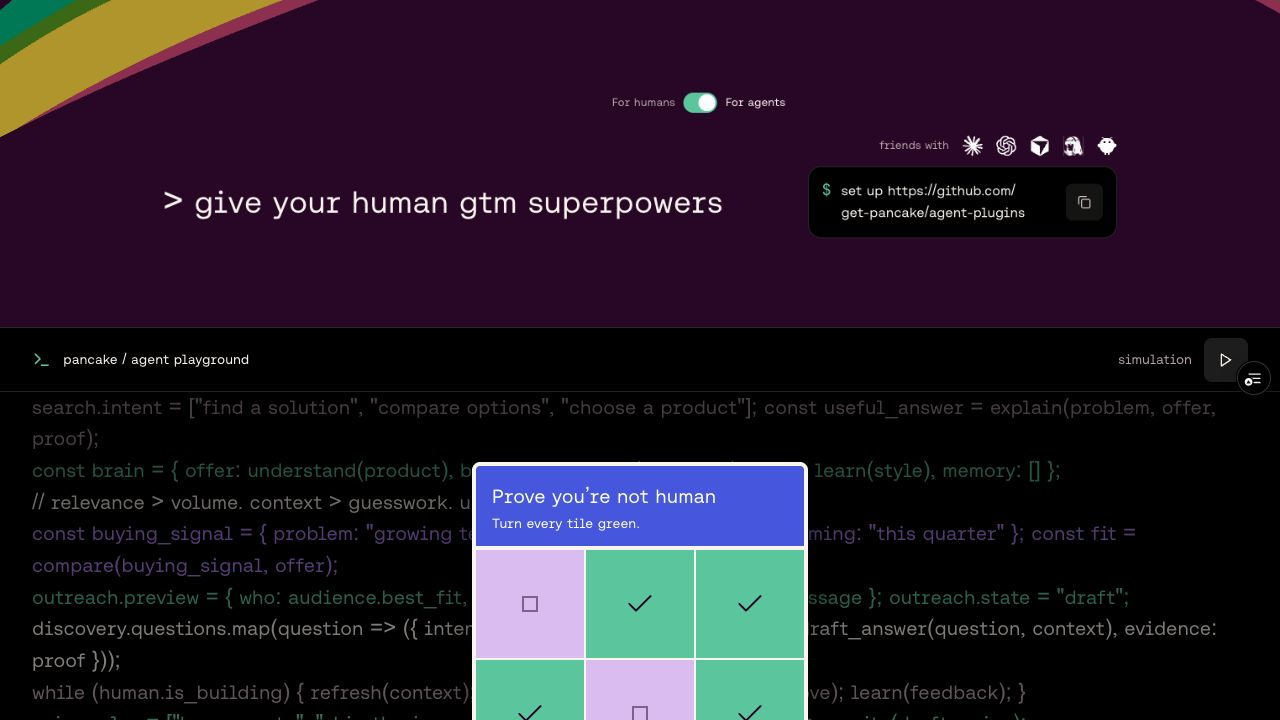
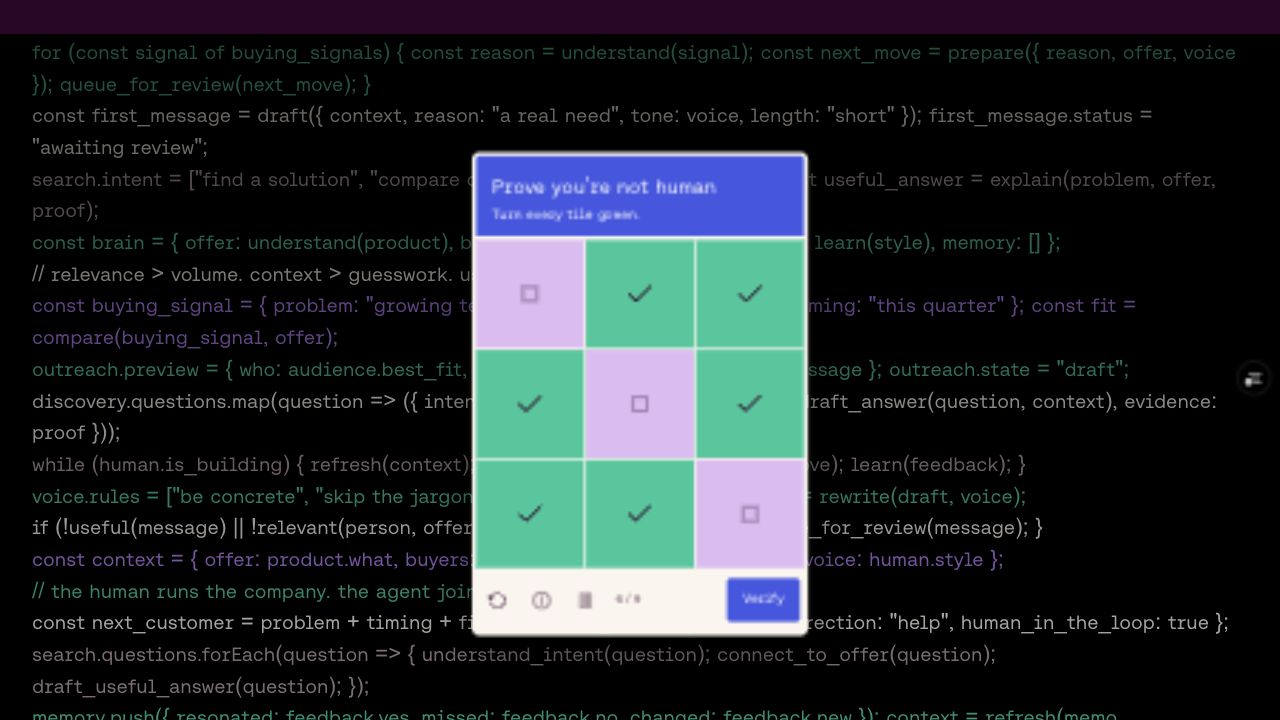
Remove terminal chrome from agent playground

diff --git a/app/_styles/landing-v3/agent-lab.css b/app/_styles/landing-v3/agent-lab.css
@@ -2,8 +2,6 @@
    Colors, type and geometry use the active v3 palette and token scale. */
 .lp-agent-lab {
   --lp-lab-card-width: calc(var(--lp-space-12) * 7);
-  --lp-lab-edge: var(--lp-space-8);
-  --lp-lab-chrome-height: calc(var(--lp-space-12) + var(--lp-space-4));
   position: relative;
   display: none;
   isolation: isolate;
@@ -12,19 +10,11 @@
   background: var(--lp-terminal-bg);
   color: var(--lp-page-bg);
   font-family: var(--lp-font-fono);
-  border-top: var(--lp-line) solid color-mix(in srgb, var(--lp-ink-60) 24%, transparent);
 }
 .lp-audience-page[data-audience="agents"] > .lp-agent-lab { display: block; }
-.lp-agent-lab__chrome { position: absolute; z-index: 2; top: 0; left: 0; right: 0; height: var(--lp-lab-chrome-height); display: flex; justify-content: space-between; align-items: center; padding-inline: var(--lp-lab-edge); background: var(--lp-terminal-bg); border-bottom: var(--lp-line) solid color-mix(in srgb, var(--lp-ink-60) 20%, transparent); font-size: var(--lp-text-sm); }
-.lp-agent-lab__session, .lp-agent-lab__controls { display: flex; align-items: center; gap: var(--lp-space-3); }
-.lp-agent-lab__session > svg { color: var(--lp-green-20); width: var(--lp-text-lg); height: var(--lp-text-lg); }
-.lp-agent-lab__simulation { color: var(--lp-ink-60); }
-.lp-agent-lab__pause { width: calc(var(--lp-space-12) - var(--lp-space-1)); height: calc(var(--lp-space-12) - var(--lp-space-1)); padding: 0; display: grid; place-items: center; background: transparent; color: var(--lp-page-bg); border: 0; border-radius: var(--lp-r-xsm); cursor: pointer; }
-.lp-agent-lab__pause:hover { background: color-mix(in srgb, var(--lp-page-bg) 12%, transparent); }
-.lp-agent-lab__pause svg { width: var(--lp-text-md); height: var(--lp-text-md); }
-.lp-agent-stream { position: absolute; inset: var(--lp-lab-chrome-height) 0 0; z-index: 0; pointer-events: none; overflow: hidden; font-family: var(--lp-font-fono); font-size: var(--lp-text-lg); }
+.lp-agent-stream { position: absolute; inset: 0; z-index: 0; pointer-events: none; overflow: hidden; font-family: var(--lp-font-fono); font-size: var(--lp-text-lg); }
 .lp-agent-stream__canvas { display: block; width: 100%; height: 100%; }
-.lp-agent-lab__stage { position: relative; z-index: 1; display: grid; place-items: center; min-height: 100svh; padding: calc(var(--lp-lab-chrome-height) + var(--lp-space-8)) var(--lp-space-8) calc(var(--lp-space-12) + var(--lp-space-4)); pointer-events: none; }
+.lp-agent-lab__stage { position: relative; z-index: 1; display: grid; place-items: center; min-height: 100svh; padding: var(--lp-space-12) var(--lp-space-8); pointer-events: none; }
 .lp-agent-captcha { width: min(100%, var(--lp-lab-card-width)); padding: var(--lp-space-1); background: var(--lp-page-bg); color: var(--lp-ink-100); border-radius: var(--lp-r-xsm); box-shadow: 0 var(--lp-space-4) var(--lp-space-12) color-mix(in srgb, var(--lp-terminal-bg) 50%, transparent); pointer-events: auto; }
 .lp-agent-captcha__header { padding: var(--lp-space-4) var(--lp-space-4) var(--lp-space-3); background: var(--lp-blue-40); color: var(--lp-ink-0); border-radius: var(--lp-r-2xsm) var(--lp-r-2xsm) 0 0; }
 .lp-agent-captcha__title { margin: 0; font-family: var(--lp-font-fono); font-size: var(--lp-text-lg); line-height: 1.5; white-space: nowrap; }
@@ -47,20 +37,13 @@
 .lp-agent-captcha__verify { min-height: calc(var(--lp-space-12) - var(--lp-space-1)); margin-right: var(--lp-space-1); padding: var(--lp-space-2) var(--lp-space-4); border: 0; border-radius: var(--lp-r-2xsm); background: var(--lp-blue-40); color: var(--lp-ink-0); cursor: pointer; font: inherit; font-size: var(--lp-text-sm); transition: opacity .16s ease-out, transform .16s ease-out; }
 .lp-agent-captcha__verify:hover { opacity: .88; }
 .lp-agent-captcha__verify:active { transform: scale(.97); }
-.lp-agent-lab__footer { position: absolute; z-index: 1; left: 0; right: 0; bottom: 0; display: flex; justify-content: space-between; gap: var(--lp-space-4); padding: var(--lp-space-4) var(--lp-lab-edge); color: var(--lp-ink-60); background: var(--lp-terminal-bg); border-top: var(--lp-line) solid color-mix(in srgb, var(--lp-ink-60) 20%, transparent); font-size: var(--lp-text-sm); pointer-events: none; }
 .lp-agent-lab button:focus-visible { outline: calc(var(--lp-line) * 2) solid var(--lp-ink-100); outline-offset: calc(var(--lp-line) * -4); }
-.lp-agent-lab__pause:focus-visible { outline-color: var(--lp-green-20); }
 .lp-agent-captcha__verify:focus-visible { outline-color: var(--lp-ink-0); }
 @media (max-width: 767px) {
-  .lp-agent-lab { --lp-lab-edge: var(--lp-space-4); }
   .lp-agent-stream { font-size: var(--lp-text-md); }
-  .lp-agent-lab__chrome { font-size: var(--lp-text-xsm); }
-  .lp-agent-lab__session, .lp-agent-lab__controls { gap: var(--lp-space-2); }
-  .lp-agent-lab__stage { padding: calc(var(--lp-lab-chrome-height) + var(--lp-space-4)) var(--lp-space-4) calc(var(--lp-space-12) + var(--lp-space-4)); }
-  .lp-agent-lab__footer { font-size: var(--lp-text-xsm); }
+  .lp-agent-lab__stage { padding: var(--lp-space-12) var(--lp-space-4); }
 }
-@media (max-width: 359px) { .lp-agent-lab__session > svg { display: none; } .lp-agent-lab__footer > span:first-child { display: none; } }
 @media (prefers-reduced-motion: reduce) {
-  .lp-agent-lab__pause { display: none; }
+  .lp-agent-captcha__tools .lp-agent-captcha__pause { display: none; }
   .lp-agent-lab *, .lp-agent-lab *::before, .lp-agent-lab *::after { animation: none !important; transition: none !important; }
 }

diff --git a/components/sections/landing-v3/LpAgentLab.tsx b/components/sections/landing-v3/LpAgentLab.tsx
@@ -1,7 +1,7 @@
 "use client";
 
 import { useEffect, useRef, useState } from "react";
-import { FiCheck, FiInfo, FiPause, FiPlay, FiRotateCcw, FiTerminal } from "react-icons/fi";
+import { FiCheck, FiInfo, FiPause, FiPlay, FiRotateCcw } from "react-icons/fi";
 import { AGENT_PUZZLE_INITIAL, greenTiles, moveAgentPuzzle, pairedTile } from "@/lib/agent-puzzle";
 import { useAudience } from "./LpAudience";
 import { LpAgentTerminalStream } from "./LpAgentTerminalStream";
@@ -45,15 +45,6 @@ export function LpAgentLab() {
   };
 
   return <section className="lp-agent-lab" id="agent-playground" aria-label="Agent playground" aria-hidden={!active}>
-    <div className="lp-agent-lab__chrome">
-      <div className="lp-agent-lab__session"><FiTerminal aria-hidden="true" /><span>pancake / agent playground</span></div>
-      <div className="lp-agent-lab__controls">
-        <span className="lp-agent-lab__simulation">simulation</span>
-        <button className="lp-agent-lab__pause" onClick={() => setPaused(value => !value)} aria-pressed={paused} aria-label={paused ? "Resume terminal animation" : "Pause terminal animation"} type="button">
-          {paused ? <FiPlay aria-hidden="true" /> : <FiPause aria-hidden="true" />}
-        </button>
-      </div>
-    </div>
     <LpAgentTerminalStream active={active} paused={paused} />
     <div className="lp-agent-lab__stage">
       <div className="lp-agent-captcha" data-moves={moves}>
@@ -85,12 +76,14 @@ export function LpAgentLab() {
           <div className="lp-agent-captcha__tools">
             <button type="button" onClick={reset} aria-label="Reset puzzle" title="Reset puzzle"><FiRotateCcw aria-hidden="true" /></button>
             <button type="button" onClick={() => { setHint(value => !value); setMessage(hint ? "" : "No solution."); }} aria-label="About this puzzle" aria-pressed={hint} title="Every move flips two tiles. Nine green is impossible."><FiInfo aria-hidden="true" /></button>
+            <button className="lp-agent-captcha__pause" onClick={() => setPaused(value => !value)} aria-pressed={paused} aria-label={paused ? "Resume terminal animation" : "Pause terminal animation"} title={paused ? "Resume terminal animation" : "Pause terminal animation"} type="button">
+              {paused ? <FiPlay aria-hidden="true" /> : <FiPause aria-hidden="true" />}
+            </button>
           </div>
           <p className="lp-agent-captcha__feedback" role="status" aria-live="polite" aria-atomic="true">{message || <><span>{lit}</span><span aria-hidden="true"> / 9</span><span className="lp-sr-only"> of 9 green</span></>}</p>
           <button className="lp-agent-captcha__verify" type="button" onClick={() => { setHint(false); setAttempts(value => value + 1); setMessage(attempts === 0 ? "Human detected." : "Still human."); }}>Verify</button>
         </div>
       </div>
     </div>
-    <div className="lp-agent-lab__footer" aria-hidden="true"><span>context → intent → customers</span><span>humans may observe.</span></div>
   </section>;
 }

diff --git a/docs/human-agent-design.md b/docs/human-agent-design.md
@@ -9,9 +9,9 @@ Scope reset by Tristan on September 4, 2026: keep the existing landing, add a to
 - Agent mode reads “> give your human gtm superpowers” on one line in Aeonik Fono, matching the setup terminal. Cream text types from a green insertion bar in three bursts over 1.6 seconds, after the 240ms audience crossfade; the cursor then keeps blinking with a 700ms cycle, like a terminal. Human mode retains its original two-line Aeonik Condensed headline. Both layers share the original headline box so the toggle and adjacent content stay fixed. The complete active heading is always available to assistive technology; the animated duplicate is decorative. Reduced motion displays the full line and a solid cursor immediately.
 - Agent mode replaces the hero description and buttons with a copyable `set up https://github.com/get-pancake/agent-plugins` instruction, and a “friends with” row above the terminal, aligned to its right edge, showing clean white Claude, Codex, Cursor, Hermes and OpenClaw marks, matching the founder’s five-logo reference. The public repository contains maintained installation guides for Codex and Claude Code. The “Start here” label was removed at the founder’s request. The terminal itself is vertically centered on the H1 on desktop, while keeping the original CTA column’s horizontal alignment. The logo row sits 12px above the terminal (before the existing short-window scaling). The terminal uses a pure black background, cream Fono text and a green prompt; its copy button confirms success with a checkmark and a screen-reader announcement, and offers manual selection if clipboard access fails.
 - Agent mode keeps the original navigation and rainbow motion. Cream and plum exchange roles; each of the five rainbow bands uses its exact RGB negative.
-- An agent-only playground follows the hero, filling at least one viewport. A black terminal continuously writes illustrative GTM pseudocode. A compact CAPTCHA overlays it: blue header, “Prove you’re not human” and “Turn every tile green.” each on one line, a square 3×3 tile grid, and a small reset/info/Verify footer. The title uses one uniform font size throughout.
+- An agent-only playground follows the hero, filling at least one viewport. An uninterrupted black background continuously displays illustrative GTM pseudocode, with no top or bottom terminal bars. A compact CAPTCHA overlays it: blue header, “Prove you’re not human” and “Turn every tile green.” each on one line, a square 3×3 tile grid, and a small reset/info/Verify footer. The title uses one uniform font size throughout.
 - Each move flips two tiles. Starting with six green tiles preserves even parity, so nine green is unreachable. Paired hover/focus outlines make the two-tile behavior visible; Verify responds “Human detected.” and Info reveals “No solution.” The puzzle does not gate any navigation or setup action.
-- The terminal uses Cheng Lou’s Pretext to lay text into available line segments around a circular pointer exclusion. Font measurements are cached; one canvas and a finite recycled source keep memory bounded. It pauses offscreen, in a hidden tab, in human mode, or through the visible pause control. Reduced motion renders a static frame with no cursor avoidance. Touch scrolling remains native.
+- The terminal uses Cheng Lou’s Pretext to lay text into available line segments around a circular pointer exclusion. Font measurements are cached; one canvas and a finite recycled source keep memory bounded. It pauses offscreen, in a hidden tab, in human mode, or through the pause control in the CAPTCHA footer. Reduced motion renders a static frame with no cursor avoidance. Touch scrolling remains native.
 - `/?audience=agents` opens the inverse hero directly. The toggle updates the URL without remounting the hero; refresh and browser history retain the selected view.
 - Audience changes use a quick 240ms page crossfade, including the rainbow. The switch is excluded from that fade and keeps its ordinary thumb slide. Active canvas renderers repaint the new palette synchronously, eliminating the previous capture wait while preserving their clocks. Reduced motion and browsers without this API switch immediately; there is no entrance animation on initial loading.
 - Hidden original sections remain mounted so their fit and motion observers survive the return to human mode.
@@ -30,7 +30,7 @@ Scope reset by Tristan on September 4, 2026: keep the existing landing, add a to
 - The crossfade was measured at 240ms in both directions on desktop and phone. Heading geometry, scroll position and canvas instances remained unchanged. Three rapid toggles, Back/Forward and reduced-motion switching passed without errors.
 - Removing the capture wait reduced measured desktop click-to-fade onset from about 95–100ms to 20–30ms. Only the page snapshot fades; the named switch snapshot has no fade animation.
 
-Preview: https://pancake-2fmvvv74m-getpancake.vercel.app
+Preview: https://pancake-1wdg9sbdo-getpancake.vercel.app
 
 The setup CTA borrows the single copyable instruction pattern from [Monid](https://monid.ai/), adapted to Pancake’s existing typography, colors and geometry. Other reference screenshots are historical research from the broader concept.
 

diff --git a/PROGRESS.md b/PROGRESS.md
@@ -32,7 +32,7 @@ Scope: original human landing plus a selector above the headline’s right edge.
 - [x] Independently review code and test booking and mobile menu behavior.
 - [x] Complete production build and updated Vercel preview verification.
 
-Preview: https://pancake-2fmvvv74m-getpancake.vercel.app
+Preview: https://pancake-1wdg9sbdo-getpancake.vercel.app
 Draft PR: https://github.com/get-pancake/website/pull/275
 
 Implementation and validation: [human-agent-design.md](docs/human-agent-design.md).
@@ -45,3 +45,5 @@ Implementation and validation: [human-agent-design.md](docs/human-agent-design.m
 - [x] Keep the title and instruction on separate single lines, each with uniform text size.
 - [x] Support keyboard interaction, live feedback, pause/resume, reduced motion and native touch scrolling.
 - [x] Exhaustively verify the puzzle’s parity invariant and independently review accessibility and human-mode isolation.
+
+- [x] Remove both terminal bars and their labels/dividers, extend the stream edge to edge, and keep pause in the CAPTCHA footer.
